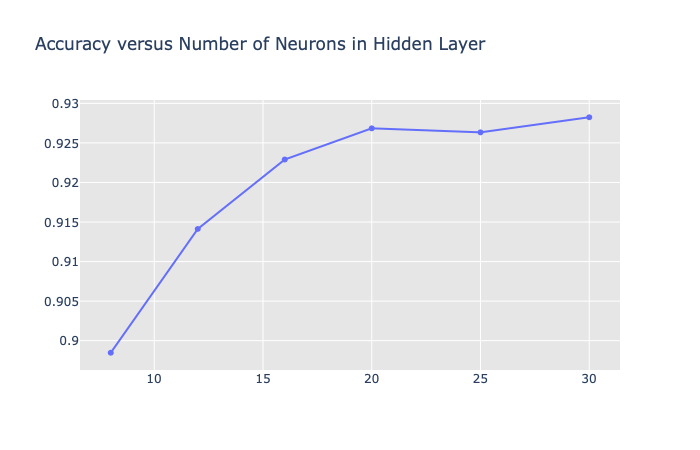
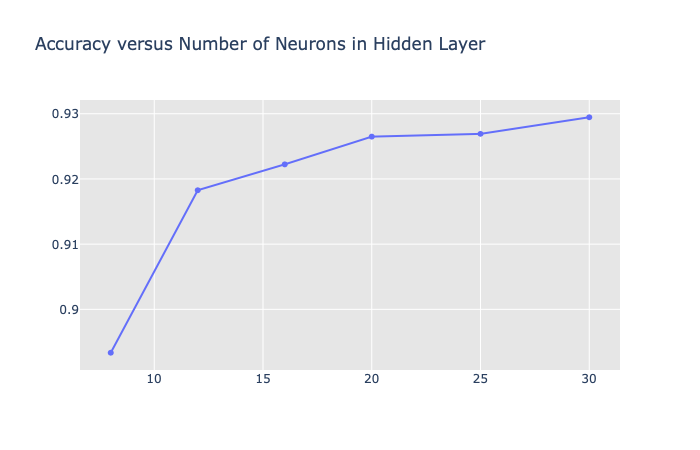
Fixed bug, ran with varying neurons, created graph for 11

diff --git a/Assignment3/Neural_Networks/Perceptron/main.py b/Assignment3/Neural_Networks/Perceptron/main.py
@@ -1,26 +1,26 @@
 import perceptron as p
 import numpy as np
-import cross_validation as cv
+from Assignment3.Neural_Networks.Perceptron.cross_validation import *
 
 
 def main():
     features_file = np.genfromtxt('../features.txt', delimiter=',')
     targets_file = np.genfromtxt('../targets.txt', delimiter='')
 
-    param_features = cv.get_validation(features_file)
-    param_targets = cv.get_validation(targets_file)
+    param_features = get_validation(features_file)
+    param_targets = get_validation(targets_file)
 
-    cv_features = cv.create_validation(features_file)
-    cv_targets = cv.create_validation(targets_file)
+    cv_features = create_validation(features_file)
+    cv_targets = create_validation(targets_file)
 
     for i in range(10):
-        test_set_length = cv.get_length(cv_targets)
+        test_set_length = get_length(cv_targets)
 
-        features_testing = cv.create_test(file=cv_features, l=test_set_length, i=i)
-        targets_testing = cv.create_test(file=cv_targets, l=test_set_length, i=i)
+        features_testing = create_test(file=cv_features, l=test_set_length, i=i)
+        targets_testing = create_test(file=cv_targets, l=test_set_length, i=i)
 
-        features_training = cv.create_training(file=cv_features, l=test_set_length, i=i)
-        targets_training = cv.create_training(file=cv_targets, l=test_set_length, i=i)
+        features_training = create_training(file=cv_features, l=test_set_length, i=i)
+        targets_training = create_training(file=cv_targets, l=test_set_length, i=i)
 
         neurons = 30
 

diff --git a/Assignment3/Neural_Networks/Perceptron/perceptron.py b/Assignment3/Neural_Networks/Perceptron/perceptron.py
@@ -32,7 +32,7 @@ class Perceptron:
 
             self.output = np.zeros((7, 1))
 
-        accuracy = float(correct) / float(length)
+        accuracy = correct / length
 
         with open('accuracy.csv', 'a') as csvFile:
             csvFile.write(str(accuracy))
@@ -40,7 +40,7 @@ class Perceptron:
             csvFile.write(str(self.neurons))
             csvFile.write('\n')
 
-        print("Accuracy: ", float(correct) / float(length))
+        print("Accuracy: ", correct / length)
 
     # Train the perceptron for at least epoch times, update the weights accordingly
     def train(self):

diff --git a/Assignment3/Neural_Networks/Perceptron/cross_validation.py b/Assignment3/Neural_Networks/Perceptron/cross_validation.py
@@ -1,3 +1,6 @@
+import numpy as np
+
+
 # Set one part aside for parameter tuning
 def get_validation(file):
     return file[0:int(len(file) * 0.1)]
@@ -15,7 +18,7 @@ def create_test(file, l, i):
 
 # Create training set
 def create_training(file, l, i):
-    return file[((i * l) + l): file.size]
+    return np.append(file[0:(i * l)], file[((i * l) + l): len(file)], axis=0)
 
 
 # Get length test set
